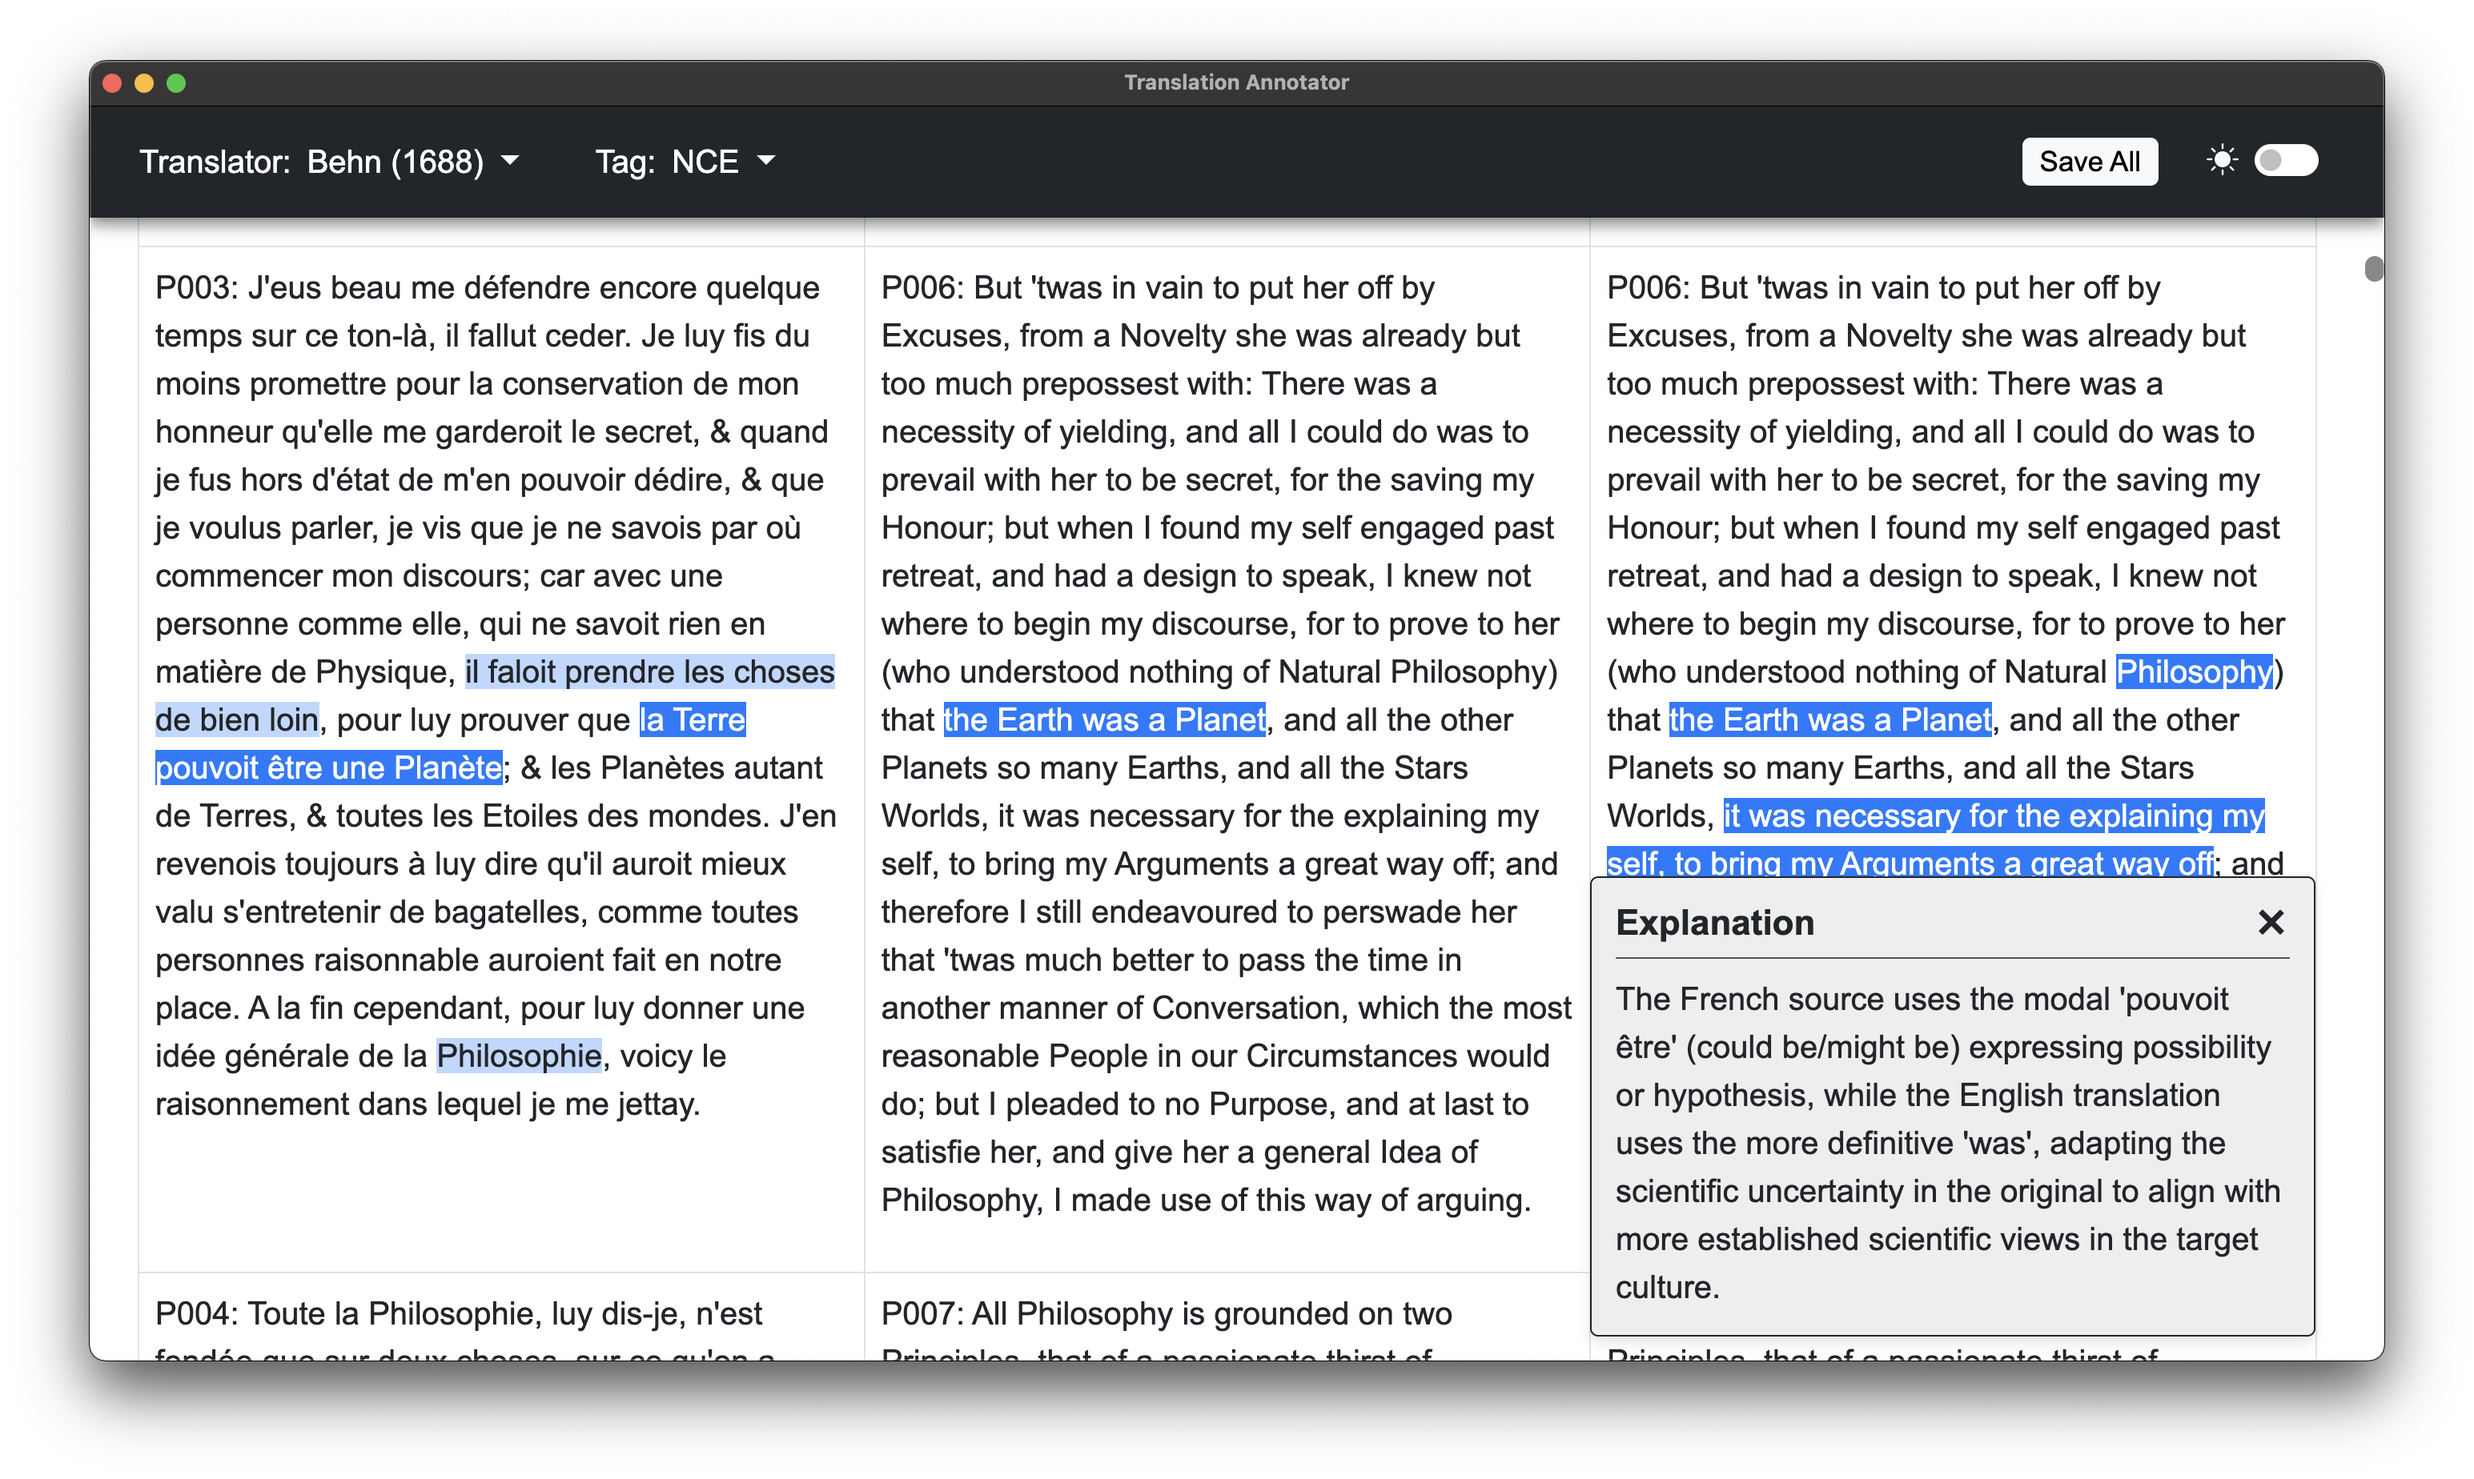
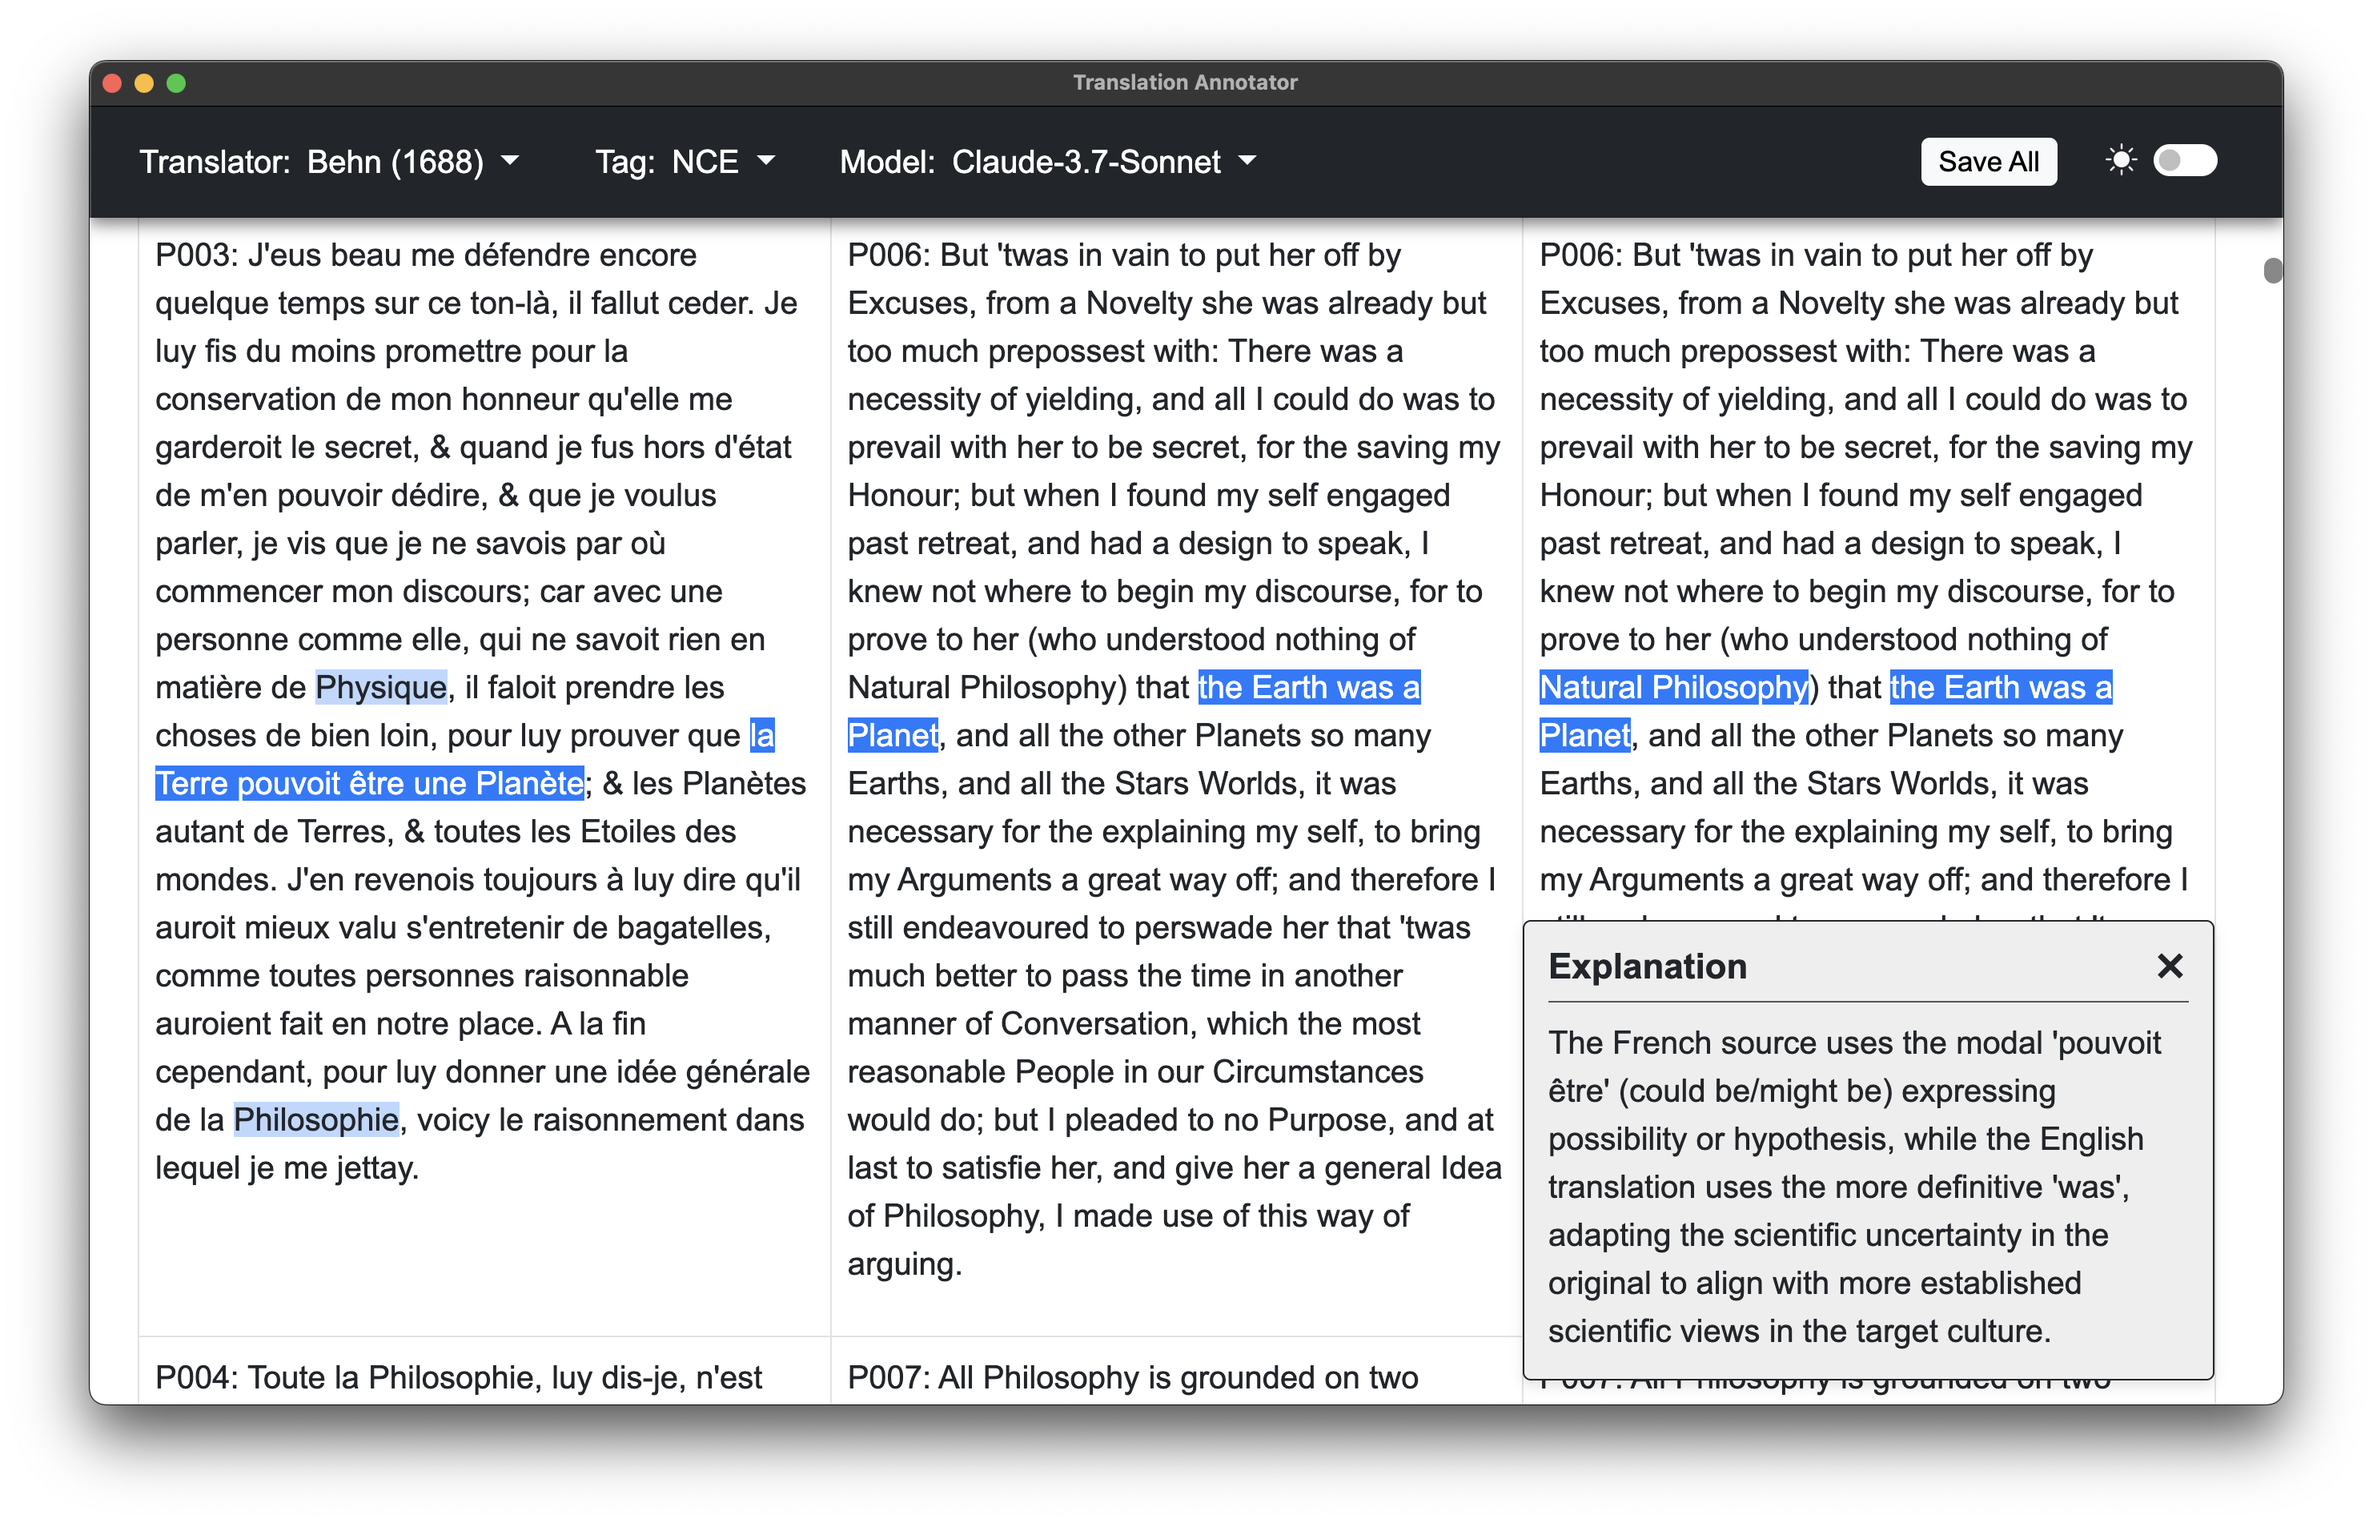
update screenshots

Changed region(s): [[0.031, 0.0308, 0.9622, 0.9253]]

diff --git a/README.md b/README.md
@@ -10,7 +10,7 @@ An Electron application to visualize and compare manual and AI-generated annotat
 
 ## Using the Application
 
-Select the translator, tag and model to display in the navigation bar on the top left. 
+Select the translator, tag and model in the navigation bar on the top left. 
 
 The source text is shown in the left column, manual annotations on the target text in the middle column, and AI-generated annotations on the target text in the right column. 
 
